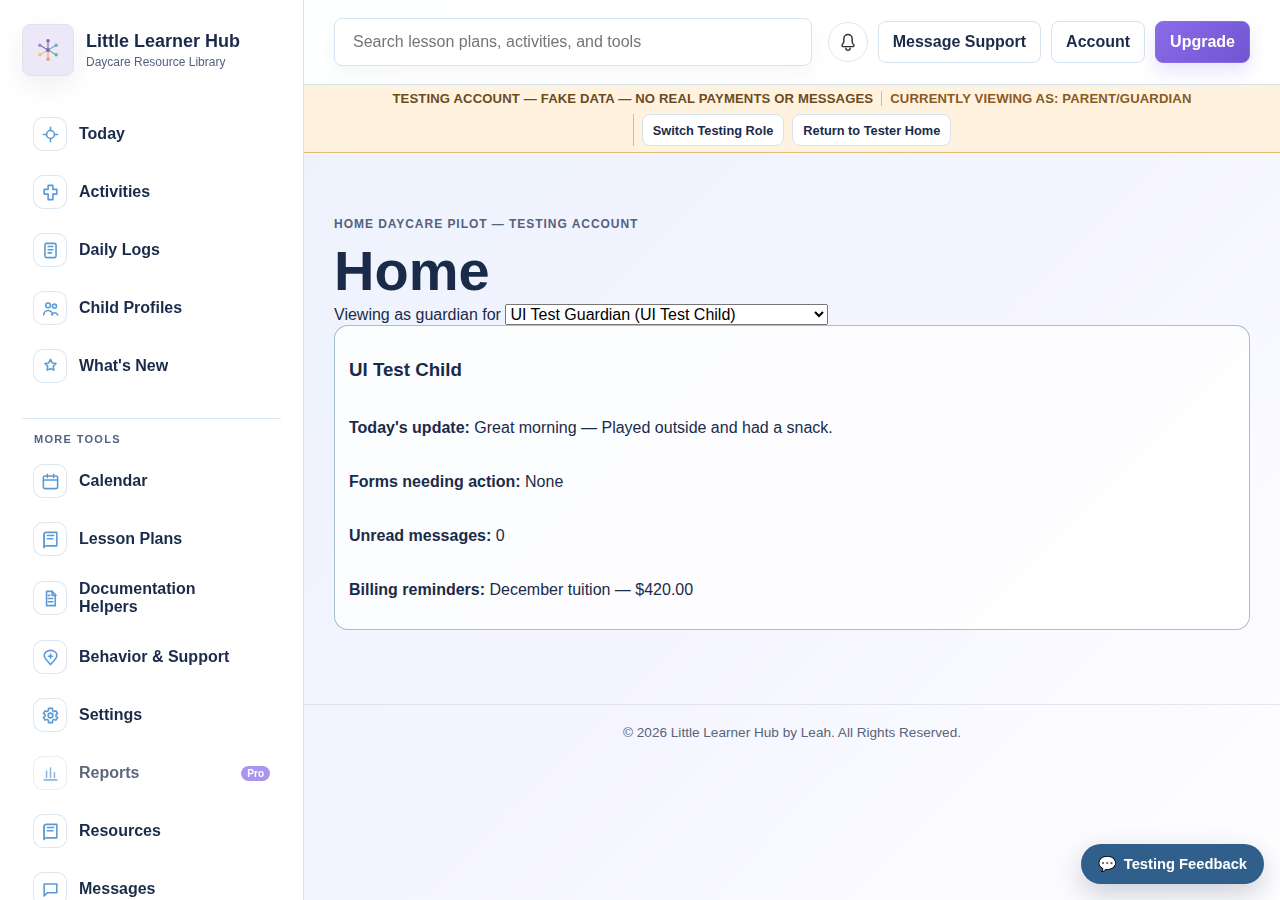
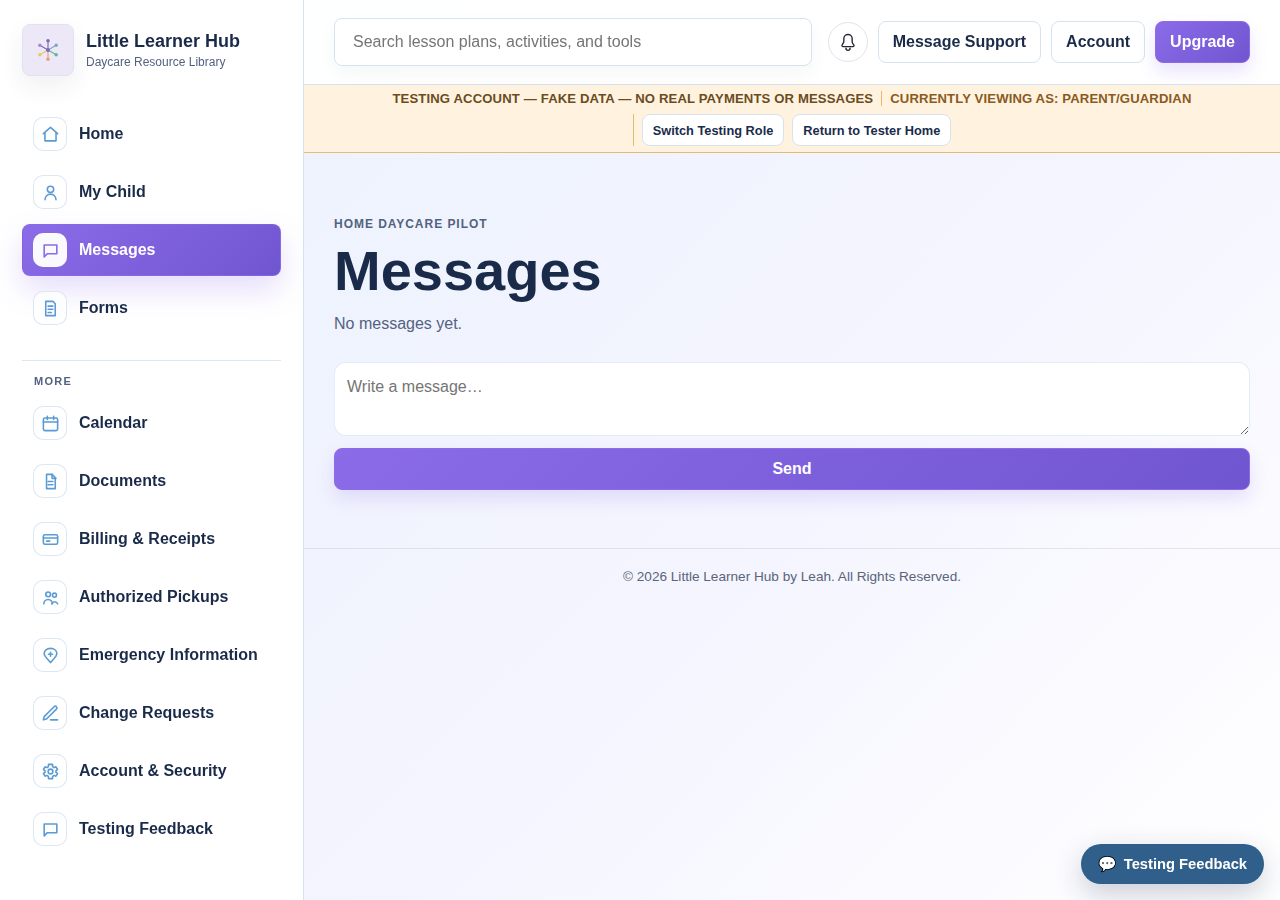
docs(home-daycare-pilot): navigation completion handoff + screenshots
Adds docs/HOME_DAYCARE_PILOT_NAVIGATION_HANDOFF.md: branch-safety
confirmation, what was built, the cross-login sync fix, the
syncRoleAwareNavGrouping() scoping bugfix, full regression results,
explicit known limitations (Center Director/Teacher deferred, Forms
Center not yet unified, no per-child staff assignment, parent emergency
info is read-only + change-request only), and confirmation main/production
are untouched and no Stripe/email/SMS/OpenAI calls occurred.

Also includes refreshed screenshots from re-running existing capture
scripts during regression testing (docs/screenshots/fast-daily-logs*,
home-daycare-pilot) and new screenshots for this turn's navigation and
connected-data walkthrough work.

diff --git a/docs/HOME_DAYCARE_PILOT_NAVIGATION_HANDOFF.md b/docs/HOME_DAYCARE_PILOT_NAVIGATION_HANDOFF.md
@@ -1,0 +1,175 @@
+# Home Daycare Pilot Navigation — Handoff (testing only, not merged/deployed)
+
+**Branch:** `cursor/director-family-foundation-bc66`
+**Draft PR:** [#324](https://github.com/leahrivie-blip/LITTLE-LEARNER-HUB/pull/324) → base retargeted to `testing/full-platform-integration-2026-07` (was `main`)
+**Status:** Draft, not merged, not deployed. Stopping for owner review per instructions.
+
+This is a **scoped completion of the Solo Home Daycare Provider navigation only** — it is explicitly **not** a full role-navigation redesign. See "Known limitations / explicitly deferred" below.
+
+---
+
+## 1. Branch safety confirmation
+
+- Fetched `origin/testing/full-platform-integration-2026-07` and `origin/cursor/director-family-foundation-bc66`.
+- `testing/full-platform-integration-2026-07` **has not moved** since it was merged into this branch. Its tip (`679bd68a38a4db4b8275dae8aa9109f7b532976c`) is exactly the merge-base with this branch — zero commits exist in the testing branch that aren't already here.
+- Commits unique to this branch (after the merge point), in order:
+  1. `b08c57d` — merge of `testing/full-platform-integration-2026-07` into this branch (brought Phases 21–23 forward; no conflicts)
+  2. `722bab1` — generalize connected pilot data + staff member + banner (prior turn)
+  3. `f3da110` — acceptance-criteria tests + sync bridge test (prior turn)
+  4. `ddc6572` — docs: handoff report + internal test-account guide + screenshots (prior turn)
+  5. *(this turn's commits — see the "Files changed" section and final commit SHA below)*
+- Diff scope vs. `testing/full-platform-integration-2026-07`: only `app.js`, `index.html`, `styles.css`, `server/home-daycare-pilot-api.js`, `scripts/home-daycare-pilot-data-model.js`, `server/index.js` (one field added to the login response), new test/screenshot-capture scripts, `package.json` (+scripts), and new screenshots/docs. No unrelated code.
+- Since the merge-base equals the testing branch's own tip, **no Phase 1–20 code is being reintroduced** — this branch is a strict superset of the testing branch.
+- Checked `gh pr list --base testing/full-platform-integration-2026-07 --state open`: **no other open PRs** target that branch — no risk of overwriting another in-flight PR's changes.
+- PR #324 (previously a stale `main`-targeted placeholder titled "Draft: Director / Forms / Family foundation through Phase 20") was **retargeted** to `testing/full-platform-integration-2026-07` and its title/body updated, rather than opening a duplicate PR for the same branch.
+
+---
+
+## 2. What was built this turn
+
+### 2.1 Exact Solo Home Daycare Provider navigation
+
+A **dedicated** sidebar block (`#pilotProviderNav` in `index.html`) — not a patch of the generic capability-based `#platformNav` — shown *instead of* it whenever the account is a connected Home Daycare Pilot owner, with the exact requested grouping:
+
+- **Primary:** Today, Children, Daily Care, Families, Messages, Forms & Enrollment, Calendar, Billing
+- **Planning:** Classroom Assistant, Lesson Plans, Activities
+- **More:** Documents & Records, Reports, Staff *(dynamic label — see 2.2)*, Program Settings, Account & Subscription, Help & Testing Feedback
+
+Screenshot: `docs/screenshots/home-daycare-navigation/1-owner-sidebar-desktop.png`.
+
+**Phone bottom navigation** (`#pilotBottomNav`, new component): Today, Children, Log, Messages, More — the "More" button opens a bottom sheet with every Planning + More item plus Testing Feedback. Screenshot: `docs/screenshots/home-daycare-navigation/2-owner-phone-bottom-nav-more-sheet.png`.
+
+### 2.2 Staff visibility (owner + one optional assistant)
+
+- The **owner** herself (no admin needed) can add exactly **one** staff member via a self-service "Add your assistant" form on the Staff page (`POST /api/pilot/staff`). The nav label reads **"Add Assistant"** until one exists, then **"Staff"**.
+- A second staff-add attempt is rejected server-side with `409 staff_limit_reached`.
+- The staff member gets her own real temporary-password login, sharing the owner's organization/child roster.
+
+### 2.3 Home Daycare Staff view — simplified nav + server-side enforcement
+
+A **separate** dedicated sidebar (`#pilotStaffNav`) is shown for a staff login (`role: "assistant"`, `accountType: "home_daycare"`):
+
+- **Visible to staff:** Today, Assigned Children, Daily Care, Messages, Forms & Tasks, Calendar, Classroom Assistant, Lesson Plans, Activities, My Staff Profile (read-only), Account Settings, Testing Feedback.
+- **Never visible to staff (client-side nav absent, and independently enforced server-side):** Families, Billing, adding another staff member, full Program Settings. Admin, Testing Lab, AI Outcomes, and feature flags remain structurally unreachable — a staff member only ever holds a member session token, never an admin token.
+
+Server-side (`server/home-daycare-pilot-api.js`): every actor resolved from a Home Daycare fake account now carries an `isOwner` flag (`true` for the owner/External Tester Sandbox account, `false` for a `home_daycare_staff` account). The following endpoints now require `actor.isOwner`, returning `403 owner_only` otherwise — **enforced even if the staff member calls the API directly, bypassing the UI entirely**:
+- `GET/POST /api/pilot/guardians`, `PUT /api/pilot/guardians/access` (Families)
+- `GET/POST /api/pilot/billing` (program billing / family balances)
+- `POST /api/pilot/staff` (hiring another staff member)
+- `GET /api/pilot/change-request` (parent change requests)
+
+`GET /api/pilot/staff` also now filters to the caller's own row when she is not the owner ("other staff's private records" are never returned to a staff member, even though today there is only ever one).
+
+Screenshot: `docs/screenshots/home-daycare-navigation/3-staff-sidebar-desktop.png`.
+
+**Automated test:** `scripts/test-home-daycare-staff-restrictions.js` (17 checks) — covers the one-staff-member limit, staff CAN/CANNOT matrix server-side (both directions), Admin/Testing Lab structural unreachability, and the client-side sidebar assertion.
+
+**Known limitation — "unassigned children if assignments are being used":** this build does not yet have a per-child staff-assignment concept; a Home Daycare's single staff member currently sees the full (small) child roster, which is a reasonable default for a solo home daycare with one assistant, but per-child assignment/filtering is not implemented. Flagging explicitly per instructions.
+
+### 2.4 Parent/Guardian navigation
+
+A dedicated `#pilotParentNav` sidebar plus phone bottom nav (Home, My Child, Messages, Forms, More):
+
+- **More:** Calendar, Documents *(shares the Forms & Documents surface — see limitation below)*, Billing & Receipts (financially-responsible-only, already enforced), Authorized Pickups, Emergency Information, Change Requests, Account & Security, Testing Feedback.
+- **New:** `GET /api/pilot/child-contacts` — read-only, returns only the pickup/emergency contacts for the parent's own linked child (never another family's), sourced from the existing guardian access-rule flags (`isAuthorizedPickup`, `isEmergencyContact`).
+- **New:** `POST /api/pilot/change-request` + owner-only `GET /api/pilot/change-request` — a parent can ask the provider to update emergency/pickup info; this **creates a request the owner reviews**, it never edits the record directly (matching "permitted to [request changes to]").
+
+Screenshot: `docs/screenshots/home-daycare-navigation/4-parent-phone-bottom-nav.png`.
+
+**Known limitation:** "Documents" in the parent's More menu currently points at the same Forms surface (`pilot-forms`) rather than a dedicated documents list — there is no separate "documents" data concept in the pilot model yet, only Forms and (separately) shared Photos.
+
+### 2.5 A cross-login connected-data gap found and fixed
+
+While building the connected-data walkthrough test (below), a real gap surfaced: **Fast Daily Logs' underlying store is per-browser-login `localStorage`**, so the owner and her staff member — two different logins sharing one organization — would each have had their own disconnected copy of "today," even though the org/children are shared. This is now bridged:
+
+- `appendChildRecord()` (in `app.js`) mirrors every Daily Care record a connected pilot account creates to a new server-side endpoint (`POST /api/pilot/daily-care-entries`), best-effort/fire-and-forget, keyed by the record's own id.
+- `syncPilotDailyCareEntriesIntoLocalStore()` pulls every mirrored entry for the organization and merges it into the local store on load — additive and idempotent (matched by id, never duplicates, never overwrites a local edit).
+- This is what makes "staff logs an observation, owner sees it immediately" (and vice versa) actually true rather than a placeholder.
+
+Also fixed: the real password-login response (`server/index.js`) did not previously include `organizationId`, so a generic (non–External-Tester-Sandbox) connected fake account's browser never actually recognized itself as a connected testing account after a normal login — only after admin-preview paths. Both the server response and the client's `updateAccount()` call now carry it.
+
+### 2.6 A pre-existing nav-scoping bug found and fixed (real regression, now covered by tests)
+
+Adding the new dedicated nav blocks (`#pilotProviderNav`, `#pilotStaffNav`, `#pilotParentNav`) exposed a latent bug in the **existing, unrelated** Phase 22 role-navigation code: `syncRoleAwareNavGrouping()` used an unscoped `document.querySelector(".nav-section-core")` (and `'[data-nav-section="more"]'`) to decide where to re-parent already-permitted nav buttons. Because the new pilot nav blocks reused the same `.nav-section-core` class and appear earlier in the DOM, `#platformNav`'s own "Today"/"Calendar"/"Daily Logs"/"Child Profiles"/"Settings"/"Forms" buttons were being physically moved into the (hidden) pilot nav container for **any non-pilot account whose primary-view set included them** — e.g. a real `lead_teacher`/`assistant` account. This broke `scripts/test-phase22-role-navigation.js` (confirmed failing before the fix, passing after) and would have broken real teacher/assistant navigation on any host once these nav blocks were deployed, **regardless of whether that account had anything to do with the Home Daycare Pilot**.
+
+**Fix:** both selectors are now explicitly scoped to `#platformNav` (`app.js`, `syncRoleAwareNavGrouping()`). Full regression re-run below confirms no other similar unscoped-selector issue exists.
+
+---
+
+## 3. Connected-data walkthrough (Section 5 of the request)
+
+New test: `scripts/test-home-daycare-connected-walkthrough.js` — a real-browser, real-server, end-to-end walkthrough of the exact scenario requested:
+
+1. Admin creates a Home Daycare Pilot tester through the real Testing Lab wizard.
+2. Owner adds a new fake child through the real Families screen.
+3. Owner creates and links a guardian (financially responsible) to that child.
+4. Owner adds the optional staff member (self-service, no admin needed).
+5. **Staff** logs an observation for that same child through the real Daily Care screen.
+6. **Owner** sees the staff-logged entry immediately — same connected timeline (this is the cross-login sync fix above, verified end-to-end).
+7. Owner shares the entry with the parent (a real family update).
+8–9. Tester switches to Parent/Guardian; Parent Home shows the exact shared entry.
+10. Parent replies through the real Messages screen.
+11. Owner sees the parent's reply in the same connected thread.
+12. **Full server restart** (not just a page refresh) — every record (child, guardian, update, message reply, and a Testing Feedback thread) is still present exactly once, and the feedback thread reaches the Admin inbox.
+
+Device coverage: the owner's setup (add child, add guardian) is verified once on desktop, then the **same connected data** (not re-created) is confirmed reachable with zero console errors at tablet (820×1180) and phone (390×844) sizes — proving it's genuinely connected data, not per-device fixtures.
+
+Result: **12/12 checks passed**, three times in a row (confirmed stable, not flaky) after fixing a few test-only selector issues (see commit history) — all real product-code fixes are described above; the remaining iterations were fixing the test script itself.
+
+Screenshots: `docs/screenshots/home-daycare-connected-walkthrough/1-owner-families-connected.png`, `2-staff-daily-care-desktop.png`, `3-parent-sees-shared-entry-desktop.png`.
+
+---
+
+## 4. Full regression run (this turn)
+
+| Suite | Result |
+|---|---|
+| `test-home-daycare-pilot-ui.js` | 4/4 pass |
+| `test-home-daycare-connected-walkthrough.js` (new) | 12/12 pass |
+| `test-home-daycare-staff-restrictions.js` (new) | 17/17 pass |
+| `test-role-navigation-testing-accounts.js` | 8/8 pass |
+| `test-daily-care-families-sync-bridge.js` | 3/3 pass |
+| `test-external-tester-sandbox.js` | 15/15 pass |
+| `test-phase22-role-navigation.js` | 10/10 pass (was failing before the nav-scoping fix in 2.6) |
+| `test-fast-daily-logs.js` | 9/9 pass |
+| `test-fast-daily-logs-visual.js` | 5/5 pass |
+| `test-fast-daily-logs-safety.js` | 11/11 pass |
+| `npm run check` (syntax, all key files) | pass |
+| `npm run test:homepage-smoke` | pass (desktop + mobile) |
+
+No Stripe, email, SMS, or OpenAI calls occur anywhere in this work — Home Daycare Pilot billing remains fake/local records only (`noRealPaymentProcessed`), and Testing Feedback never sends outbound email.
+
+---
+
+## 5. Known limitations / explicitly deferred (per instructions — not attempted this turn)
+
+- **Center Director navigation** (Classrooms, expanded Staff directory, program-wide filters) — deferred, not touched.
+- **Center Teacher filtering** (assigned-classroom-only views) — deferred, not touched.
+- **Full Forms Center organization** (Forms Dashboard, Built-In Template Library, AI Form Builder, separate Program/Child/Staff/Enrollment Forms sections) — the pilot's "Forms & Enrollment"/"Forms & Tasks"/"Documents" nav items all currently point at the same single connected Forms surface (`pilot-forms`), not the full Forms Center information architecture.
+- **Photo/event features that don't yet exist**: there is no dedicated "Documents" data concept for the parent (see 2.4), and Calendar events are the existing generic Calendar, not a pilot-specific event feed.
+- **Per-child staff assignment** (see 2.3) — a Home Daycare's staff member sees the whole (small) roster; assignment-based filtering is not implemented.
+- **"Emergency information the guardian is permitted to edit"** — currently read-only + change-request (see 2.4); direct guardian editing of emergency info was not implemented this turn.
+
+---
+
+## 6. Files changed this turn
+
+- `index.html` — new `#pilotProviderNav`, `#pilotStaffNav`, `#pilotParentNav` sidebar blocks; new `#pilotBottomNav`/`#pilotBottomNavMoreSheet`; two new view containers (`view-pilot-staff`, `view-pilot-parent-contacts`).
+- `app.js` — nav-swap logic (`refreshHomeDaycarePilotNav`, `pilotIsStaffNow`), phone bottom nav (`renderPilotBottomNav`, `pilotBottomNavMoreItemsHtml`), staff page (`renderPilotStaffPage`/`loadPilotStaffPage`), parent contacts page (`renderPilotParentContactsPage`/`loadPilotParentContactsPage`), cross-login Daily Care sync (`syncPilotDailyCareEntriesIntoLocalStore`, `appendChildRecord` mirror), organizationId adoption on login, and the `syncRoleAwareNavGrouping()` scoping fix.
+- `styles.css` — phone bottom nav + "More" sheet styles.
+- `server/index.js` — password-login response now includes `organizationId`.
+- `server/home-daycare-pilot-api.js` — `isOwner` on every resolved actor; new endpoints (`/api/pilot/staff`, `/api/pilot/daily-care-entries`, `/api/pilot/child-contacts`, `/api/pilot/change-request`); owner-only gating on Families/Billing/staff-add/change-requests.
+- `scripts/home-daycare-pilot-data-model.js` — daily-care-entry mirror, child-contacts lookup, change-request storage.
+- `scripts/test-home-daycare-connected-walkthrough.js` (new), `scripts/test-home-daycare-staff-restrictions.js` (new), `scripts/capture-home-daycare-nav-screens.js` (new).
+- `package.json` — new test scripts.
+- `docs/screenshots/home-daycare-navigation/`, `docs/screenshots/home-daycare-connected-walkthrough/` (new screenshots).
+
+---
+
+## 7. Confirmations
+
+- **Main/production untouched.** All work is on `cursor/director-family-foundation-bc66`; nothing was merged into `main`; no production deploy performed or requested.
+- **No Stripe, email, SMS, or OpenAI calls** occurred during this work or its tests (verified — all billing records are `testingOnly`/fake, Testing Feedback has no outbound email path, Classroom Assistant/AI Outcomes remain disabled/admin-preview-only).
+- **PR #324 remains draft**, base retargeted to `testing/full-platform-integration-2026-07`, not merged.
+
+Stopping here for owner review, as instructed.
